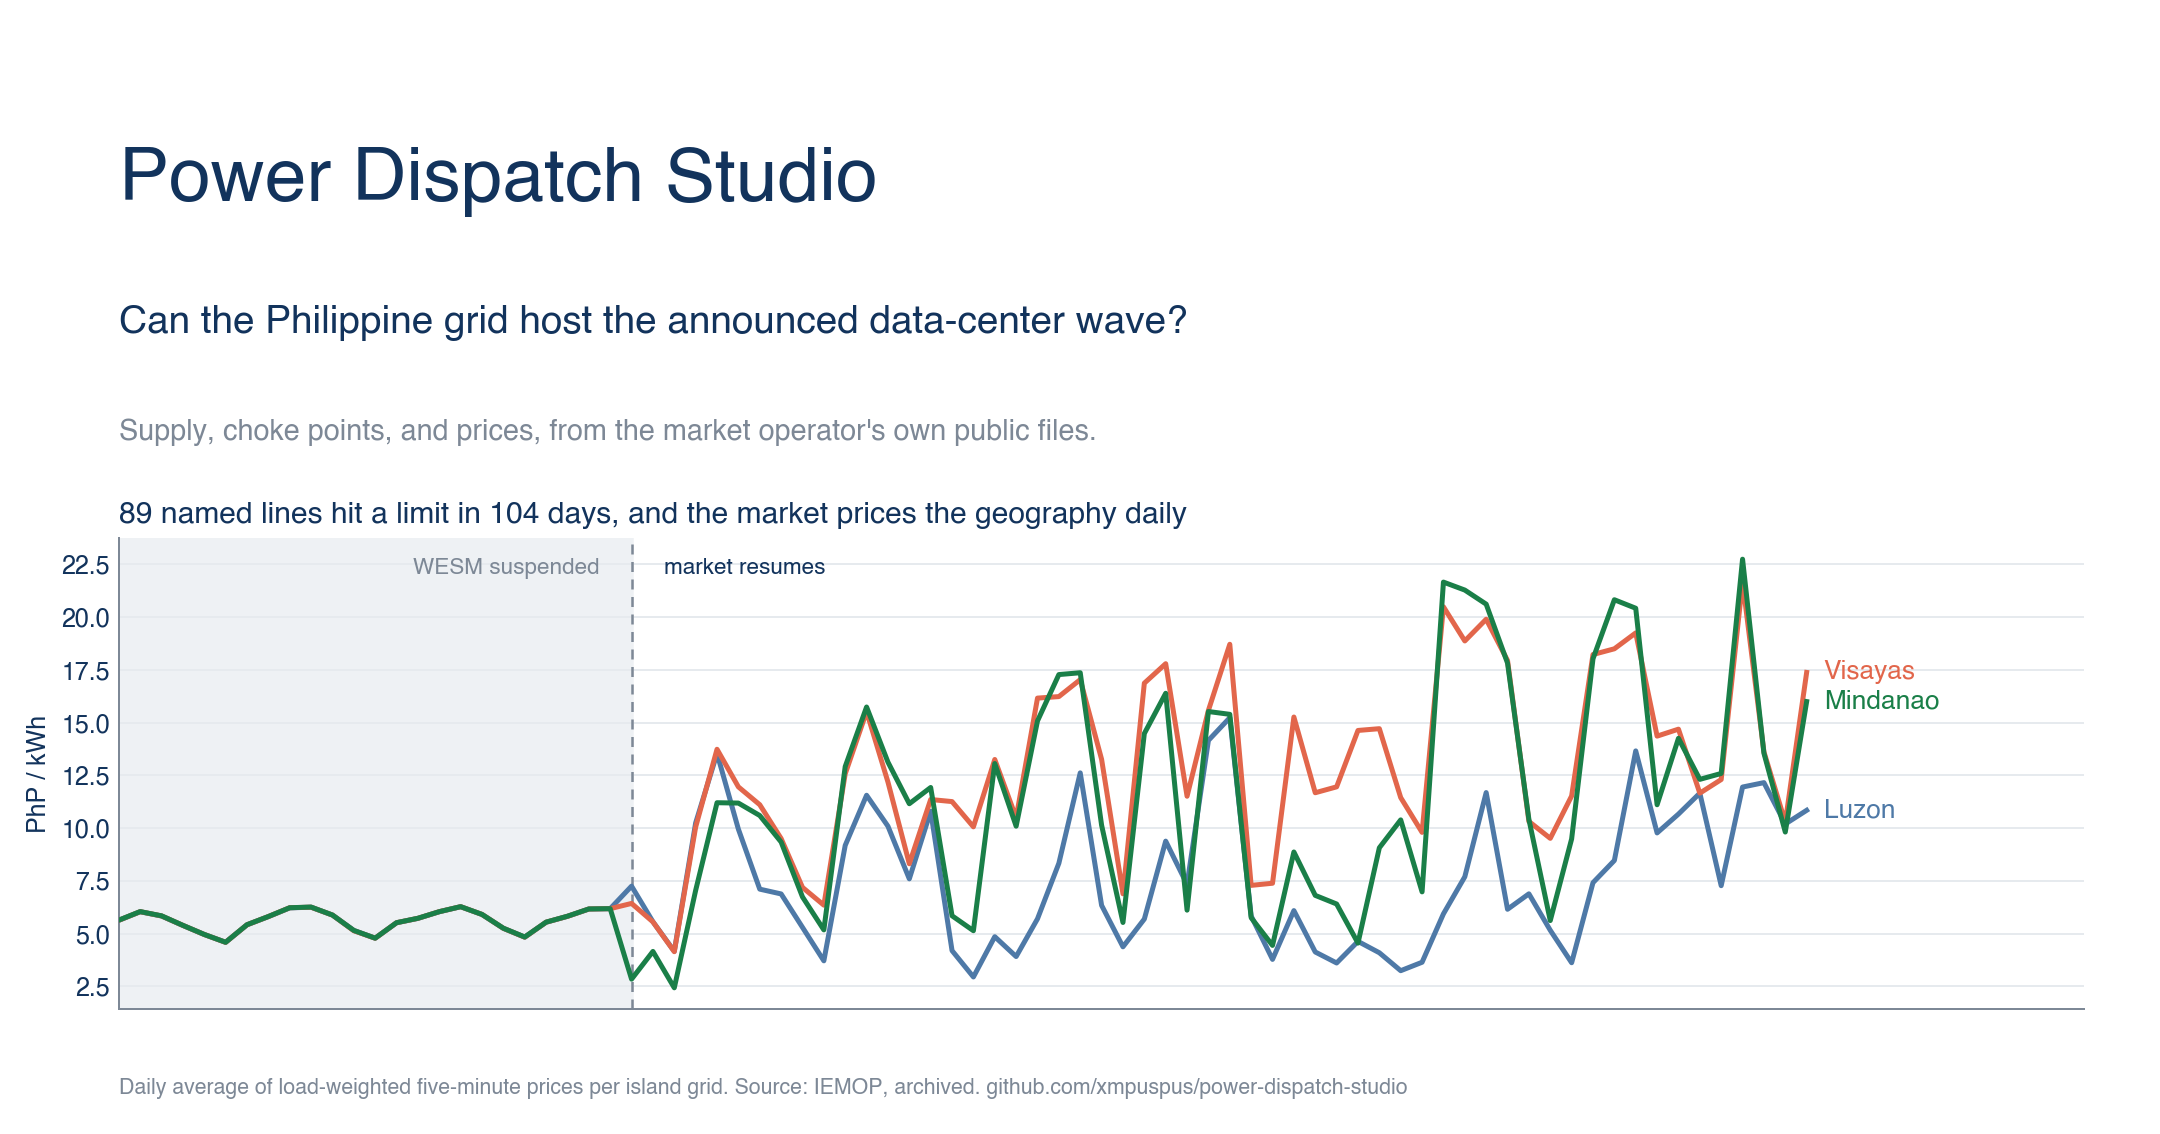
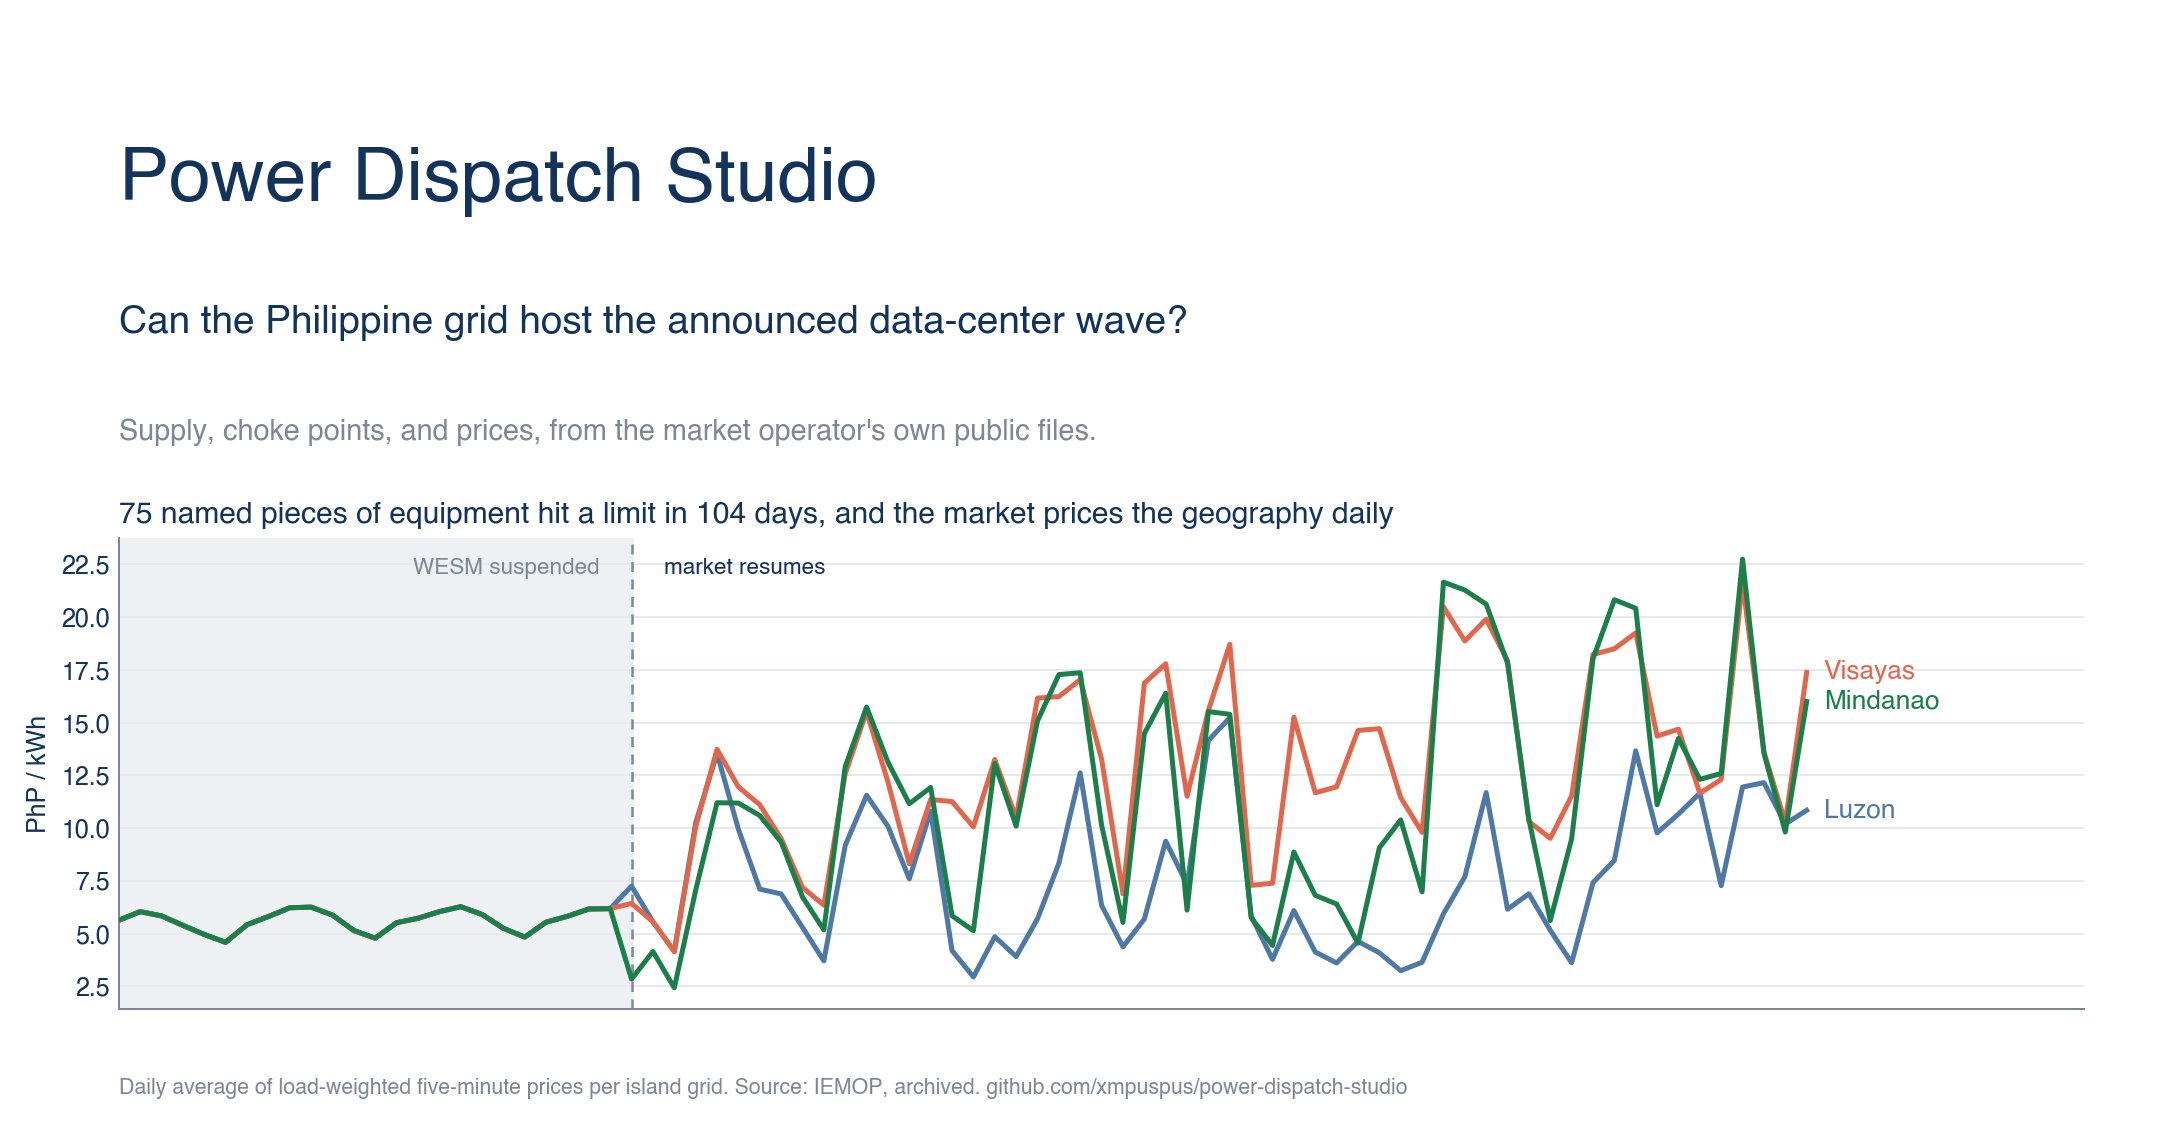
Count distinct equipment in the choke-point headline, and bake the figures the notes hand-typed
The Q2 headline said 89 distinct pieces of equipment, but 89 counts
(equipment, station, voltage) rows: a transformer is monitored under each
winding voltage and a line at each terminal, so 14 of the 89 are one physical
asset listed twice. The honest distinct-equipment count is 75, with 89 the
monitored-constraint total. Fixed the stat, the README, the methodology, and
the OG card, and pinned both numbers.

Also baked the must-run inertness figures the methodology hand-typed and had let
go stale: a per-grid-hour peak median of 10 MW across 165 grid-hours (was 153)
in 13 weekly files (was twelve), plus the MOTRD file count. And interpolated the
MOT-residual note's four numbers from the probe so they stop drifting: it still
read "Luzon runs about 2 percent high" next to the 1.5 percent residual it says
it tracks, when the 15-day probe puts the gap at 1.6 percent. De-numbered two
docstrings that carried the stale 2-percent and 99.2-percent figures.

Oracle 87 to 89 claims; every new pin fails on planted drift.

Changed region(s): [[0.1241, 0.4321, 0.6514, 0.463]]

diff --git a/web/methodology.html b/web/methodology.html
@@ -67,7 +67,11 @@ via <code>wp-admin/admin-ajax.php</code> (action
 <td><a href="https://www.iemop.ph/market-data/congestions-manifesting-in-rtd/">RTD</a>,
 <a href="https://www.iemop.ph/market-data/congestions-manifesting-in-dap/">DAP</a></td>
 <td>The constraint league: named equipment and station, ranked by days at a limit
-(a day counts once, so a day-ahead re-run cannot inflate it). Real-time (RTD)
+(a day counts once, so a day-ahead re-run cannot inflate it). The league keys on
+equipment, station, and voltage, so a transformer appears under each winding
+voltage and a line under each terminal: over the window it holds 89 monitored
+constraints across 75 distinct pieces of equipment, and the headline count is the
+distinct-equipment one. Real-time (RTD)
 5-minute intervals and day-ahead (DAP) hourly rows are kept in separate columns,
 because the day-ahead projection re-prices through the day and its raw row count
 measures re-run persistence, not time at the limit. Two severity columns ride
@@ -227,7 +231,7 @@ from the SO dispatch instruction report)</td>
 href="https://www.iemop.ph/market-data/list-of-mot-raise-re-dispatch-based-on-so-dispatch-instruction-report/">page</a></td>
 <td>The full out-of-merit record beside the must-run subset: 97
 thousand instructions across the archived window at a pooled 55 MW
-median, against the must-run list's 5.7; two of the twelve weekly
+median, against the must-run list's 5.7 per-interval; 2 of the 13 weekly
 files were published empty and are counted as published
 (market_ops.json so_instructions). Added after the round-9 audit
 found it untriaged.</td></tr>
@@ -916,9 +920,10 @@ lifting mechanics, effectivity), so the computed series is the trigger's
 input, not a reconstruction of the cap itself.</li>
 <li><b>Must-run instructions are displayed, not dispatched, and the
 inertness finding is scoped to the must-run subset</b>: the processed
-must-run list carries a median of 10 MW across 153 instructed
-grid-hours in twelve weekly files, two orders of magnitude below the
-offer books it would constrain, so a must-take layer built from IT
+must-run list peaks at a median of 10 MW across its 165 instructed
+grid-hours in 13 weekly files (the per-interval instruction median is
+5.7 MW), two orders of magnitude below the
+offer books it would constrain, so a must-take layer built from it
 would be inert and is not built. The round-9 audit showed that
 finding does not extend to the family: the sibling MOT-raise
 re-dispatch record carries 97 thousand instructions across the

diff --git a/pipeline/market_obs.py b/pipeline/market_obs.py
@@ -1787,9 +1787,10 @@ def build_constrained_on(fleet: dict) -> dict:
 def build_security_limits(fleet: dict) -> dict:
     """Per-resource security limits used in RTD (RTDSL): the operating
     points security constraints pin resources to, per window. MAX equals
-    MIN in 99.2 percent of archived windows (regulating hydro, the Agus
-    units, is the exception), so nearly every row pair is a fixed
-    security-constrained operating point rather than a range."""
+    MIN in nearly every archived window (regulating hydro, the Agus units,
+    is the exception), so nearly every row pair is a fixed
+    security-constrained operating point rather than a range. The exact
+    pinned share is computed below and guarded in the methodology prose."""
     files = dataset_files("RTDSL")
     if not files:
         return {"available": False,
@@ -1945,8 +1946,25 @@ def build_so_instructions(fleet: dict) -> dict:
 
     # the must-run subset, measured beside it: the inertness claim is
     # scoped to THIS series and stays true; the full record is not inert
-    mru_mw = [f(r.get("SO_MW_INSTRUCTION")) for p in dataset_files("MRU")
+    mru_files = dataset_files("MRU")
+    mru_mw = [f(r.get("SO_MW_INSTRUCTION")) for p in mru_files
               for r in rows_of(p) if (r.get("RESOURCE_NAME") or "").strip()]
+    # grid-hour scale: the peak instruction in each (region, date, hour)
+    # bucket, so the median is the busiest interval of a typical instructed
+    # hour. Even that peak is tiny against the multi-GW offer books, which is
+    # why a must-take layer built from this list would be inert.
+    mru_gh_peak: dict[tuple, float] = {}
+    for p in mru_files:
+        for r in rows_of(p):
+            if not (r.get("RESOURCE_NAME") or "").strip():
+                continue
+            ts = (r.get("TIME_INTERVAL") or "").strip()
+            h = _interval_hour(ts)
+            if h is None:
+                continue
+            key = ((r.get("REGION") or "").strip(), ts[:10], h)
+            mru_gh_peak[key] = max(mru_gh_peak.get(key, 0.0),
+                                   f(r.get("SO_MW_INSTRUCTION")))
 
     # the daily per-grid instruction log: causes, named. The remarks are
     # free text, so the cause screen is a substring count (labeled), not
@@ -2019,6 +2037,8 @@ def build_so_instructions(fleet: dict) -> dict:
         "available": True,
         "motrd": {
             "weeks": weeks,
+            "n_weeks": len(weeks),
+            "n_empty_weeks": sum(1 for w in weeks if w["n_rows"] == 0),
             "n_rows": len(all_mw),
             "n_resources": len(per_res),
             "median_mw": round(_stats.median(all_mw), 1),
@@ -2033,6 +2053,10 @@ def build_so_instructions(fleet: dict) -> dict:
             "mru_median_mw": (round(_stats.median(mru_mw), 1)
                               if mru_mw else None),
             "mru_max_mw": round(max(mru_mw), 1) if mru_mw else None,
+            "mru_n_weeks": len(mru_files),
+            "mru_grid_hours": len(mru_gh_peak),
+            "mru_gh_peak_median_mw": (round(_stats.median(mru_gh_peak.values()), 1)
+                                      if mru_gh_peak else None),
             "note": ("The must-run list the methodology measured as inert "
                      "is the SUBSET; its median instruction sits at "
                      "roughly a tenth of the full MOT-raise record's, so "
@@ -2233,13 +2257,28 @@ def build_mot_dispatch_cut() -> dict:
         n = sum(w for _, w in vals)
         return round(sum(v * w for v, w in vals) / n, 1) if n else None
 
+    # Note figures interpolated from the probe so they never drift from the
+    # sample: a prior hand-typed "2 percent HIGH" went stale when the window
+    # widened from 3 to 15 days while its three sibling numbers were updated.
+    _lz = per_grid.get("luzon", {})
+    _lz_ratio = _lz.get("rtdsum_ratio") or 1.0
+    _lz_disp = _lz.get("dispatched_mw_mean") or 0.0
+    _lz_gen = _lz_disp / _lz_ratio if _lz_ratio else 0.0
+    _gap = _pool("gap_mw_mean") or 0.0
+    _residual = _pool("balance_residual_mw_mean") or 0.0
+    _import = _pool("import_mw_mean") or 0.0
+    _high_pct = round((_lz_ratio - 1) * 100, 1)
+    _gap_round = int(round(_gap / 10) * 10)
+    _import_frac = int(round(_import / _gap * 100)) if _gap else 0
+    _residual_pct = round(_residual / _lz_gen * 100, 1) if _lz_gen else 0.0
+
     return {
         "available": True,
         "days": len(days),
         "dates": [d["date"] for d in days],
         "per_grid": per_grid,
         # the retired "untested lead": the RTDSUM import/export/loss columns do
-        # NOT close the Luzon 2% gap. import is ~1/4 of the gap, and the gap is
+        # NOT close the small Luzon gap. import is a fraction of the gap, and the gap is
         # RTDSUM's own energy-balance residual, the part those columns leave over
         "luzon_residual_probe": {
             "gap_mw_mean": _pool("gap_mw_mean"),
@@ -2260,14 +2299,14 @@ def build_mot_dispatch_cut() -> dict:
                  "and that reconciliation is NOT clean everywhere. The "
                  "Visayas and Mindanao sit inside 1 percent, which is "
                  "what a cleared-MW reading predicts. Luzon runs about "
-                 "2 percent HIGH and we do not know why. The obvious "
+                 f"{_high_pct} percent HIGH and we do not know why. The obvious "
                  "candidate is ruled out: pumped storage and batteries "
                  "charging would count as dispatched offers while not "
                  "being generation, but they total 0.2 MW on a sampled "
-                 "Luzon interval, nowhere near the roughly 160 MW gap. "
+                 f"Luzon interval, nowhere near the roughly {_gap_round} MW gap. "
                  "The RTDSUM import, export and loss columns are a "
                  "measured no-op, not an untested lead: import is about "
-                 "a quarter of the gap and it tracks RTDSUM's own ~1.5 "
+                 f"{_import_frac} percent of the gap and it tracks RTDSUM's own about {_residual_pct} "
                  "percent energy-balance residual at a correlation near "
                  "0.9, so it is the term those columns leave over rather "
                  "than one they explain. The open cause is most likely a "

diff --git a/scripts/verify_claims.py b/scripts/verify_claims.py
@@ -205,9 +205,17 @@ def canonical():
                    blurb)
     curtail_days, curtail_mwh = (int(mc.group(1)), mc.group(2)) if mc else (0, "0")
 
+    mru = mo["so_instructions"]["mru_contrast"]
     return {
         "days_covered": cg["days_covered"],
         "distinct_equipment": cg["distinct_equipment"],
+        "constraint_records": cg["constraint_records"],
+        "mru_grid_hours": _n(mru["mru_grid_hours"], 0),
+        "mru_gh_peak_median": _n(mru["mru_gh_peak_median_mw"], 0),
+        "mru_median": _n(mru["mru_median_mw"], 1),
+        "mru_n_weeks": _n(mru["mru_n_weeks"], 0),
+        "motrd_n_weeks": _n(mo["so_instructions"]["motrd"]["n_weeks"], 0),
+        "motrd_empty_weeks": _n(mo["so_instructions"]["motrd"]["n_empty_weeks"], 0),
         "leyte_cebu_dap_days": _leyte_cebu("dap_days"),
         "top_corridor_dap_days": _corridor("5DAAN_4TAB2", "dap_days"),
         "top_corridor_rtd_days": _corridor("5DAAN_4TAB2", "rtd_days"),
@@ -375,8 +383,9 @@ REGISTRY = [
      re.compile(r"the run settlement\s*\n?\s*actually sees, on \*\*(\d+) days\*\*"),
      ["top_corridor_rtd_days"]),
     ("README.md",
-     re.compile(r"Across the (\d+)-day window, \*\*(\d+) distinct pieces of equipment\*\*"),
-     ["days_covered", "distinct_equipment"]),
+     re.compile(r"Across the (\d+)-day window, \*\*(\d+) distinct pieces of equipment\*\*"
+                r" hit a limit at least\s+once, in \*\*(\d+) monitored constraints\*\*"),
+     ["days_covered", "distinct_equipment", "constraint_records"]),
     ("README.md",
      re.compile(r"below the stated requirement on (\d+) of the window's (\d+) days\*\*"),
      ["luzon_reserve_short_days", "days_covered"]),
@@ -424,6 +433,17 @@ REGISTRY = [
     ("web/methodology.html",
      re.compile(r"must-run subset: (\d+)\s*\n?\s*thousand instructions across the archived window"),
      ["motrd_thousands"]),
+    # the must-run inertness measure: per-grid-hour peak median, grid-hours,
+    # weekly-file count, and the per-interval median, all rolling with the archive
+    ("web/methodology.html",
+     re.compile(r"peaks at a median of (\d+) MW across its (\d+) instructed\s+"
+                r"grid-hours in (\d+) weekly files \(the per-interval instruction "
+                r"median is\s+(\d+\.\d) MW\)"),
+     ["mru_gh_peak_median", "mru_grid_hours", "mru_n_weeks", "mru_median"]),
+    ("web/methodology.html",
+     re.compile(r"must-run list's (\d+\.\d) per-interval; (\d+) of the (\d+) weekly\s+"
+                r"files were published empty"),
+     ["mru_median", "motrd_empty_weeks", "motrd_n_weeks"]),
     ("web/methodology.html",
      re.compile(r"re-dispatch record carries (\d+) thousand instructions across the"),
      ["motrd_thousands"]),

diff --git a/pipeline/build_data.py b/pipeline/build_data.py
@@ -196,7 +196,13 @@ def build_congestion() -> dict:
         "window": {"from": days[0], "to": days[-1]} if days else None,
         "days_covered": len(days),
         "days_with_base_case_binding": len(base_days),
-        "distinct_equipment": len(out),
+        # A transformer is monitored under each winding voltage and a line at
+        # each terminal station, so the league keys (equipment, station,
+        # voltage) split one physical asset into several rows. Count distinct
+        # equipment NAMES for the physical-facility headline; keep the row
+        # count as the monitored-constraint total.
+        "distinct_equipment": len({e["equipment"] for e in out}),
+        "constraint_records": len(out),
         "total_rtd_intervals": sum(e["rtd_intervals"] for e in out),
         "total_dap_rows": sum(e["dap_rows"] for e in out),
         "league": out[:30],
@@ -673,9 +679,10 @@ def build_answers(cong, rel, prices, outs) -> dict:
                      f"curtailed on {curt_days} grid-day(s) in this archive "
                      f"window ({curt_mwh:,} MWh). Headroom for a wave this size "
                      f"means new firm supply, not spare change.")
-    q2_stat = (f"{cong.get('distinct_equipment', 0)} pieces of equipment hit "
-               f"limits across the real-time and day-ahead runs on "
-               f"{cong.get('days_covered', 0)} archive days; the "
+    q2_stat = (f"{cong.get('distinct_equipment', 0)} distinct pieces of "
+               f"equipment ({cong.get('constraint_records', 0)} monitored "
+               f"constraints) hit limits across the real-time and day-ahead "
+               f"runs on {cong.get('days_covered', 0)} archive days; the "
                f"Leyte-Luzon HVDC ran at max or offline "
                f"{A['hvdc_binding_share_dec2025_pct']}% of Dec 2025")
     q2_blurb = ("The inter-island links and named 230 kV corridors already bind "

diff --git a/pipeline/merit_order.py b/pipeline/merit_order.py
@@ -45,9 +45,10 @@ Measured, not assumed:
     agreement rate means nothing without them.
   - MOT's MW is CLEARED, not as-bid: summed per region it tracks RTDSUM
     generation at a ratio near 1.0 on the Visayas and Mindanao (a per-grid
-    rtdsum_ratio is stored and gated at 5 percent). Luzon runs about 2
-    percent high and that residual is open (see the baked note; storage
-    charging is ruled out). Resources show the cleared reading directly, a
+    rtdsum_ratio is stored and gated at 5 percent). Luzon runs a small
+    percent high and that residual is open (see the baked note for the
+    current figure; storage charging is ruled out). Resources show the
+    cleared reading directly, a
     coal unit offering a flat 600 MW all day while its dispatched MW moves
     between 349 and 600.
   - the sys region is the exact sum of the three grids on every interval
@@ -297,7 +298,7 @@ def derive_day(date: str, b64: str, name: str) -> dict:
 
     # the Luzon residual probe: per interval, the MOT dispatch-minus-generation
     # gap and RTDSUM's own energy-balance residual (GEN+IMP-REQT-LOSS-EXP), so
-    # the "import/export/loss close the 2% gap" lead can be measured, not
+    # the "import/export/loss close the gap" lead can be measured, not
     # guessed. Import is far too small and the two residuals move together.
     lz_gap: list = []
     lz_bal_resid: list = []

diff --git a/scripts/og_card.py b/scripts/og_card.py
@@ -63,9 +63,9 @@ def render(path, w_in, h_in, dpi):
     ax.set_xlim(0, len(dates) + 12)
     ax.set_ylabel("PhP / kWh", fontsize=10)
     ax.set_xticks([])
-    ax.set_title(f'{C["distinct_equipment"]} named lines hit a limit in '
-                 f'{C["days_covered"]} days, and the market prices the geography '
-                 "daily", fontsize=12, color=vz.NAVY, loc="left")
+    ax.set_title(f'{C["distinct_equipment"]} named pieces of equipment hit a '
+                 f'limit in {C["days_covered"]} days, and the market prices the '
+                 "geography daily", fontsize=12, color=vz.NAVY, loc="left")
     vz.tufte(ax, grid="y")
 
     fig.text(0.055, 0.035,

diff --git a/README.md b/README.md
@@ -62,8 +62,10 @@ the real-time count how often it actually bound. The same corridor IEMOP's Decem
 
 ![The constraint league filling in bar by bar: named transmission equipment ranked by days at a binding limit over the archive window, the Leyte-Cebu corridor lines highlighted in coral topping the list by day-ahead days at a limit](docs/constraint-league.gif)
 
-Across the 104-day window, **89 distinct pieces of equipment** hit a limit at least
-once. The map ranks them by days at a limit (a day counts once, so a day-ahead
+Across the 104-day window, **75 distinct pieces of equipment** hit a limit at least
+once, in **89 monitored constraints** (a transformer is listed under each winding
+voltage and a line at each terminal, so one physical asset can hold several limits).
+The map ranks the constraints by days at a limit (a day counts once, so a day-ahead
 re-run cannot inflate it) and keeps the real-time and day-ahead counts in separate
 columns, because the day-ahead projection re-prices hourly and its raw row count
 measures re-run persistence, not time at the limit. Per-equipment receipts:
